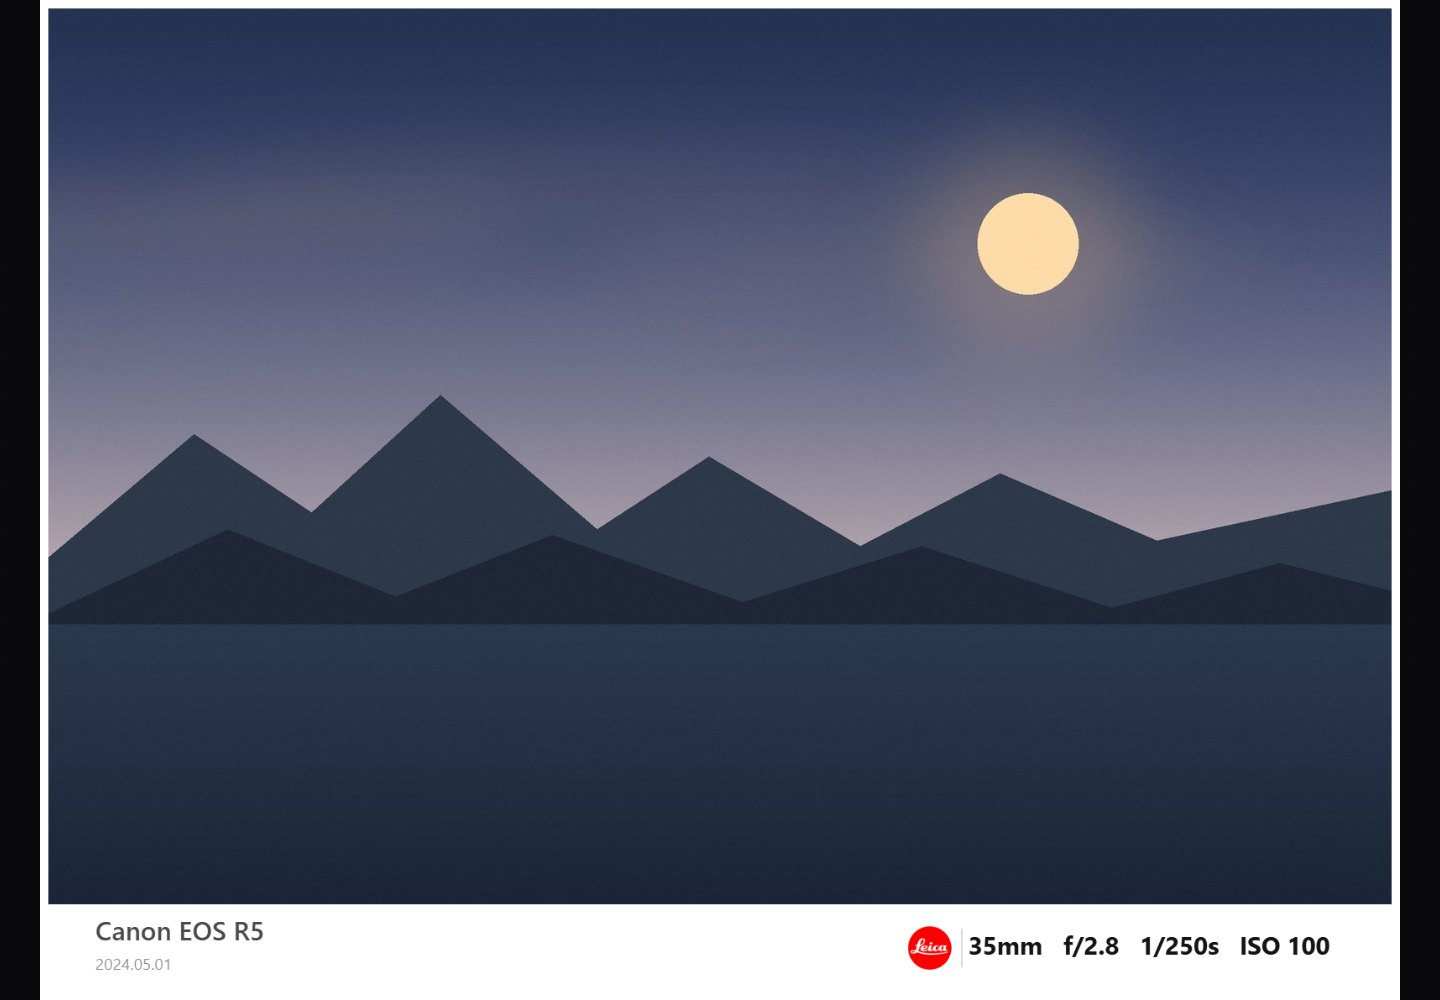
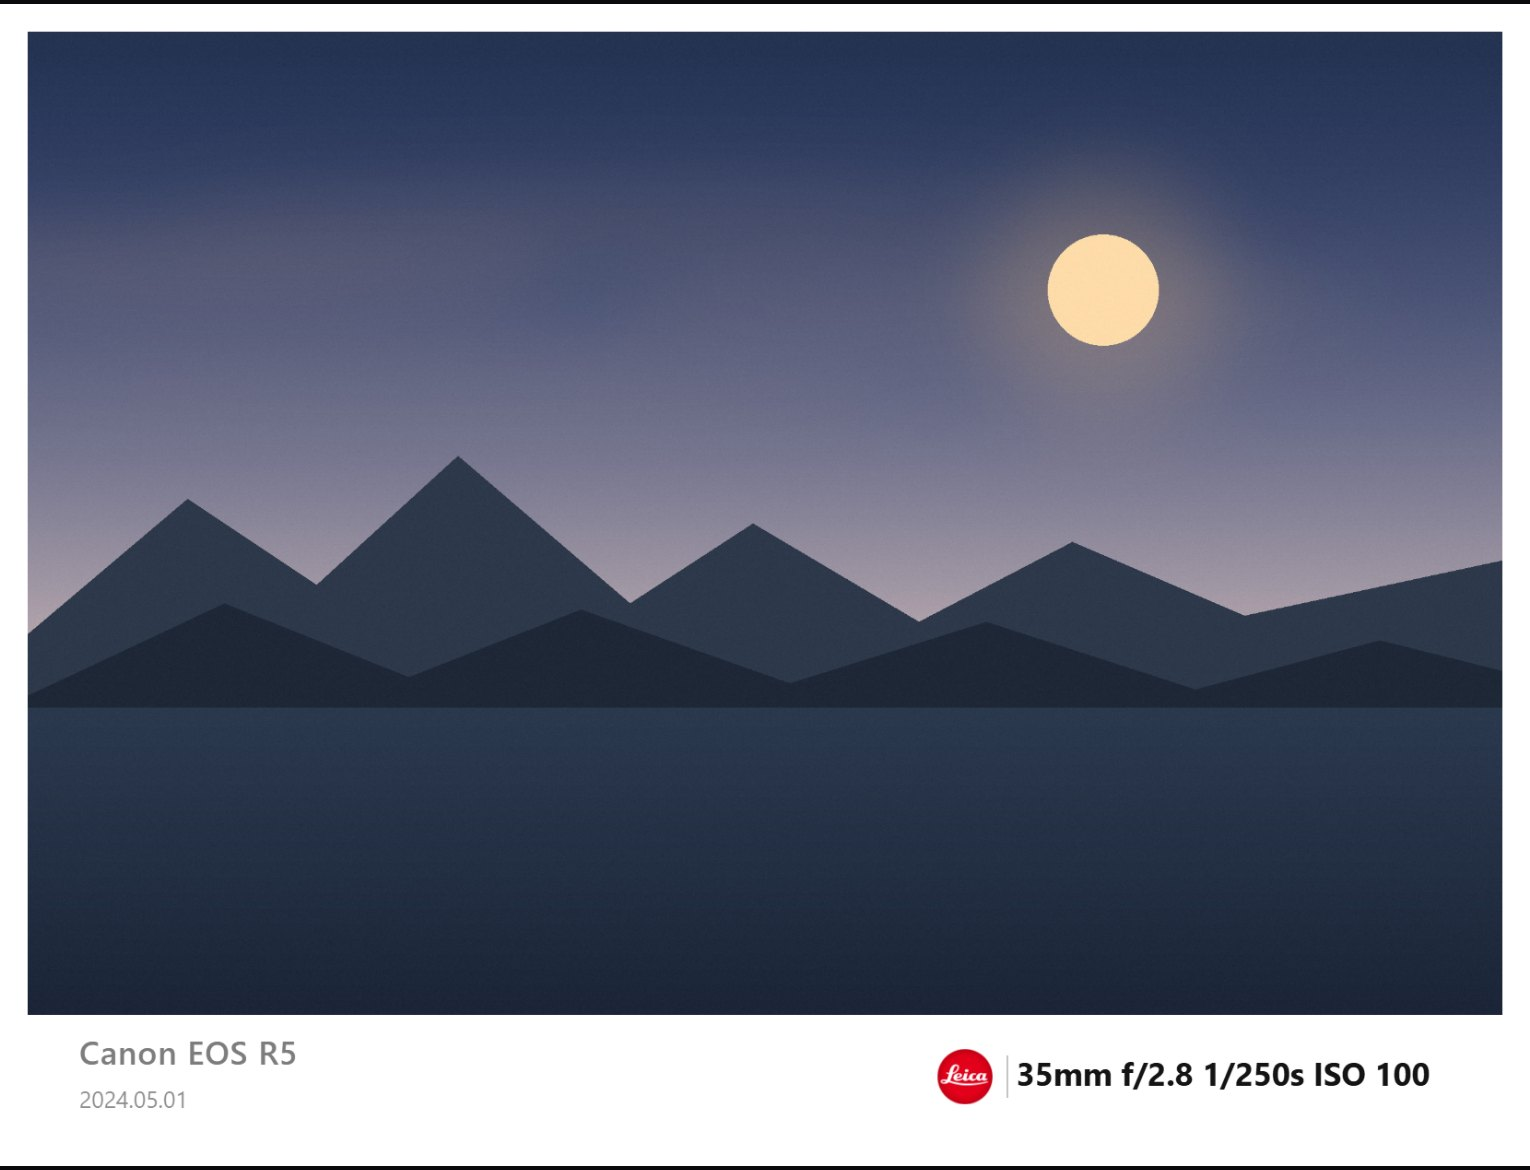
feat: 白条模板按参考图重调（灰名字、粗参数、厚白边、更高条）

diff --git a/index.html b/index.html
@@ -274,12 +274,12 @@
     <section>
       <div class="sec-row"><h3 class="sec">外观</h3><button class="mini" id="resetLook">重置</button></div>
       <div class="sld" data-show="bar,dark">
-        <div class="sld-top"><span>条高</span><output id="barOut">6.5%</output></div>
-        <input type="range" id="bar" min="4" max="14" step="0.5" value="6.5">
+        <div class="sld-top"><span>条高</span><output id="barOut">8.4%</output></div>
+        <input type="range" id="bar" min="4" max="16" step="0.5" value="8.4">
       </div>
       <div class="sld" data-show="bar,dark">
-        <div class="sld-top"><span>外边框</span><output id="borderOut">0.6%</output></div>
-        <input type="range" id="border" min="0" max="2.5" step="0.1" value="0.6">
+        <div class="sld-top"><span>外边框</span><output id="borderOut">1.9%</output></div>
+        <input type="range" id="border" min="0" max="3" step="0.1" value="1.9">
       </div>
       <div class="sld">
         <div class="sld-top"><span>图标大小</span><output id="logoOut">100%</output></div>
@@ -354,7 +354,7 @@
     date: '', signature: ''
   };
   var DEF_UI = {
-    bar: 0.065, border: 0.006, logoScale: 1, font: 1,
+    bar: 0.084, border: 0.019, logoScale: 1, font: 1,
     showDate: true, ink: 'auto',
     format: 'jpeg', quality: 0.92, exportMax: 0, pos: 75, logoGap: 53
   };
@@ -748,9 +748,9 @@
     var f = state.fields, ui = state.ui;
     var darkTpl = g.tpl === 'dark';
     var ink = darkTpl ? '#f2f2f2' : '#141414';
-    var nameInk = darkTpl ? 'rgba(242,242,242,.86)' : '#4a4a4a';
+    var nameInk = darkTpl ? 'rgba(242,242,242,.62)' : '#7d7d7d';
     var sub = darkTpl ? 'rgba(242,242,242,.52)' : 'rgba(20,20,20,.48)';
-    var line = darkTpl ? 'rgba(255,255,255,.22)' : 'rgba(20,20,20,.16)';
+    var line = darkTpl ? 'rgba(255,255,255,.28)' : 'rgba(20,20,20,.26)';
 
     var cy = g.barTop + g.barH / 2;
     var padL = g.bd + g.iw * 0.035;
@@ -758,15 +758,15 @@
 
     var name = deviceName();
     var date = dateText();
-    var params = paramsLine();
+    var params = paramsLine().replace(/\s+/g, ' ');
     var sig = f.signature || '';
 
-    var nameS = g.barH * 0.30 * ui.font;
+    var nameS = g.barH * 0.26 * ui.font;
     var subS = g.barH * 0.185 * ui.font;
-    var pS = g.barH * 0.285 * ui.font;
+    var pS = g.barH * 0.26 * ui.font;
 
     // 右侧：图标 + 分隔线 + 参数
-    var pH = g.barH * 0.50 * ui.logoScale;
+    var pH = g.barH * 0.45 * ui.logoScale;
     var pW = params ? measureAt(ctx, params, pS, 650) : 0;
     var lw = logoW(pH);
     var gap = g.barH * 0.24;
@@ -778,14 +778,14 @@
       gx += lw + gap * 0.8;
       if (params) {
         ctx.fillStyle = line;
-        ctx.fillRect(Math.round(gx - gap * 0.35), Math.round(cy - g.barH * 0.22), Math.max(1, g.iw * 0.0012), Math.round(g.barH * 0.44));
+        ctx.fillRect(Math.round(gx - gap * 0.35), Math.round(cy - g.barH * 0.17), Math.max(1.5, g.iw * 0.0012), Math.round(g.barH * 0.34));
       }
     }
     if (params) {
       var ps = pS;
       var maxW = padR - gx;
       if (pW > maxW && maxW > 10) ps = Math.max(pS * 0.5, ps * maxW / pW);
-      drawT(ctx, params, gx, cy, { size: ps, weight: 650, color: ink });
+      drawT(ctx, params, gx, cy, { size: ps, weight: 700, color: ink });
     }
 
     // 左侧：设备名 + 日期/署名
@@ -798,7 +798,7 @@
     var l2 = [date, sig].filter(Boolean).join('   ');
     var nameY = l2 ? cy - g.barH * 0.17 : cy;
     var l2Y = cy + g.barH * 0.20;
-    if (name) drawT(ctx, name, padL, nameY, { size: ns, weight: 500, color: nameInk });
+    if (name) drawT(ctx, name, padL, nameY, { size: ns, weight: 500, color: nameInk, spacing: ns * 0.03 });
     if (l2) drawT(ctx, l2, padL, l2Y, { size: subS, weight: 400, color: sub });
   }
 
